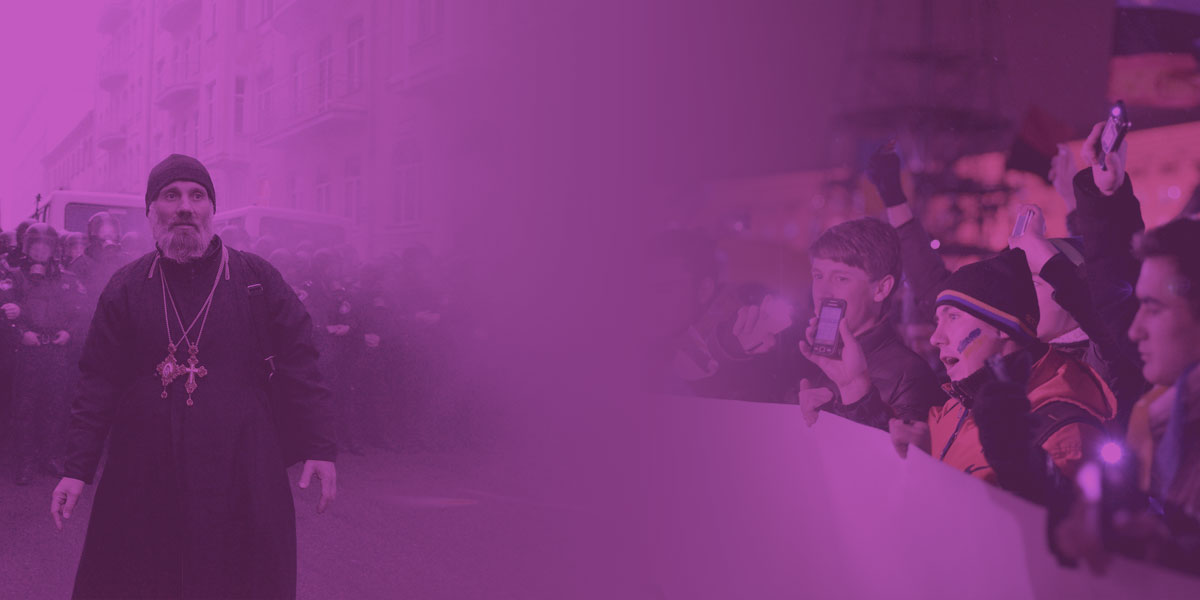
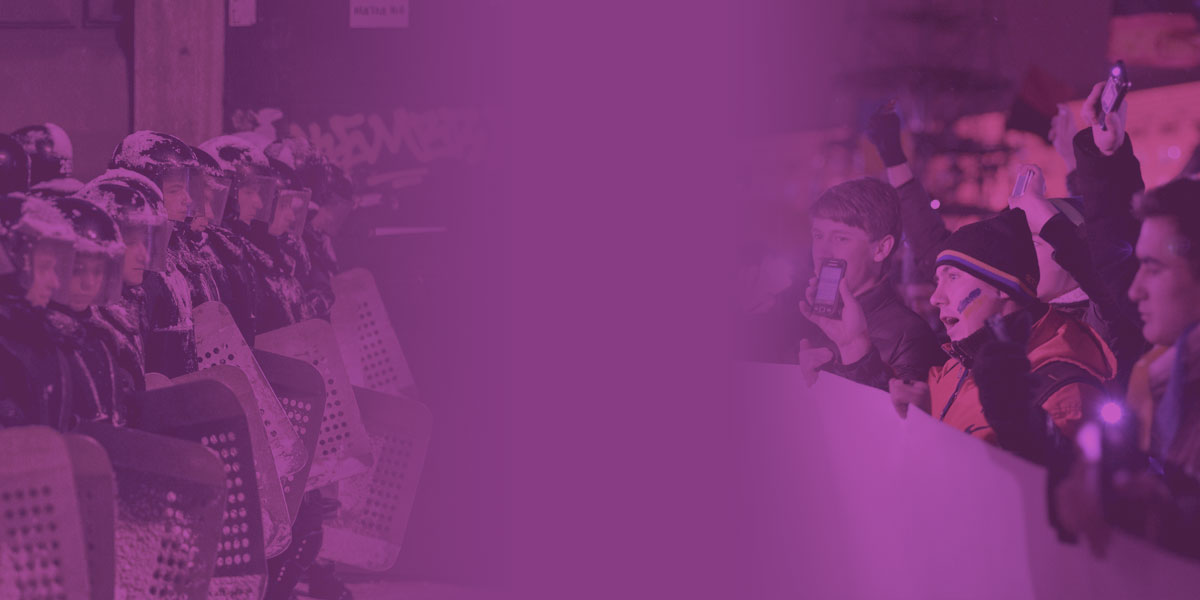
less cinematic photo for unkraine section

diff --git a/credits.html b/credits.html
@@ -8,12 +8,13 @@ permalink: /credits/
 <div class="section section--one-half">
   <h2>Image credits</h2>
   <p>Photos of One Direction in concert, by <a href="https://www.flickr.com/photos/evarinaldiphotography/7073220361">Eva Rinaldi</a> and <a href="https://www.flickr.com/photos/donkeyjacket45/6704729961">Fiona McKinlay</a>, <a href="https://creativecommons.org/licenses/by-sa/2.0/">CC BY-SA 2.0</a>.</p>
-  <p>Photos of Ukrainian Orthodox priest and Euromaidan protestors, by <a href="https://www.flickr.com/photos/mac_ivan/">Ivan Bandura</a>, <a href="https://creativecommons.org/licenses/by/2.0/">CC BY 2.0</a>.</p>
-  <p>Photo of Jacob Zuma, President of South Africa, by <a href="https://www.flickr.com/photos/worldeconomicforum/4309189472">Michael Wuertenberg</a> for the World Economic Forum, <a href="https://creativecommons.org/licenses/by-nc-sa/2.0/">CC BY-NC-SA 2.0</a>.</p>
-  <p>Photo of South African Parliament by <a href="https://www.flickr.com/photos/michaelhebb/5701999088">Michael Hebb</a>, <a href="https://creativecommons.org/licenses/by-nc-sa/2.0/">CC BY-NC-SA 2.0</a>.</p>
+  <p>PoplusCon group shot by <a href="https://www.flickr.com/photos/ciudadanointeligente/14144038703">Fundación Ciudadano Inteligente</a>, <a href="https://creativecommons.org/licenses/by-nc-sa/2.0/">CC BY-NC-SA 2.0</a>.</p>
   <p>mySociety birthday well-wishers from the <a href="https://www.flickr.com/photos/111011287@N03/sets/72157638542823893/">mySociety 10th Birthday photostream</a>, <a href="https://creativecommons.org/licenses/by-nc-nd/2.0/">CC BY-NC-ND 2.0</a>.</p>
   <p>“Say hello to Liverpool” by <a href="https://www.flickr.com/photos/mockduck/11357087515/in/set-72157638643333266">Myfanwy Nixon</a>, <a href="https://creativecommons.org/licenses/by-nc/2.0/">CC BY-NC 2.0</a>.</p>
-  <p>PoplusCon group shot by <a href="https://www.flickr.com/photos/ciudadanointeligente/14144038703">Fundación Ciudadano Inteligente</a>, <a href="https://creativecommons.org/licenses/by-nc-sa/2.0/">CC BY-NC-SA 2.0</a>.</p>
+  <p>Ukrainian riot police by <a href="https://www.flickr.com/photos/112078056@N07/11878649865">Sasha Maksymenko</a>, <a href="https://creativecommons.org/licenses/by/2.0/">CC BY 2.0</a>.</p>
+  <p>Euromaidan protestors by <a href="https://www.flickr.com/photos/mac_ivan/">Ivan Bandura</a>, <a href="https://creativecommons.org/licenses/by/2.0/">CC BY 2.0</a>.</p>
+  <p>Photo of Jacob Zuma, President of South Africa, by <a href="https://www.flickr.com/photos/worldeconomicforum/4309189472">Michael Wuertenberg</a> for the World Economic Forum, <a href="https://creativecommons.org/licenses/by-nc-sa/2.0/">CC BY-NC-SA 2.0</a>.</p>
+  <p>South African Parliament by <a href="https://www.flickr.com/photos/michaelhebb/5701999088">Michael Hebb</a>, <a href="https://creativecommons.org/licenses/by-nc-sa/2.0/">CC BY-NC-SA 2.0</a>.</p>
   <p>mySociety 2014 team retreat group photo by <a href="https://www.flickr.com/photos/mhl20/15037911343/">Mark Longair</a>, <a href="https://creativecommons.org/licenses/by-sa/2.0/">CC BY-SA 2.0</a>.</p>
   <p>Assorted photos of mySociety team programming and relaxing, by Myfanwy Nixon, Mark Longair, and Martin Wright.</p>
 </div>
